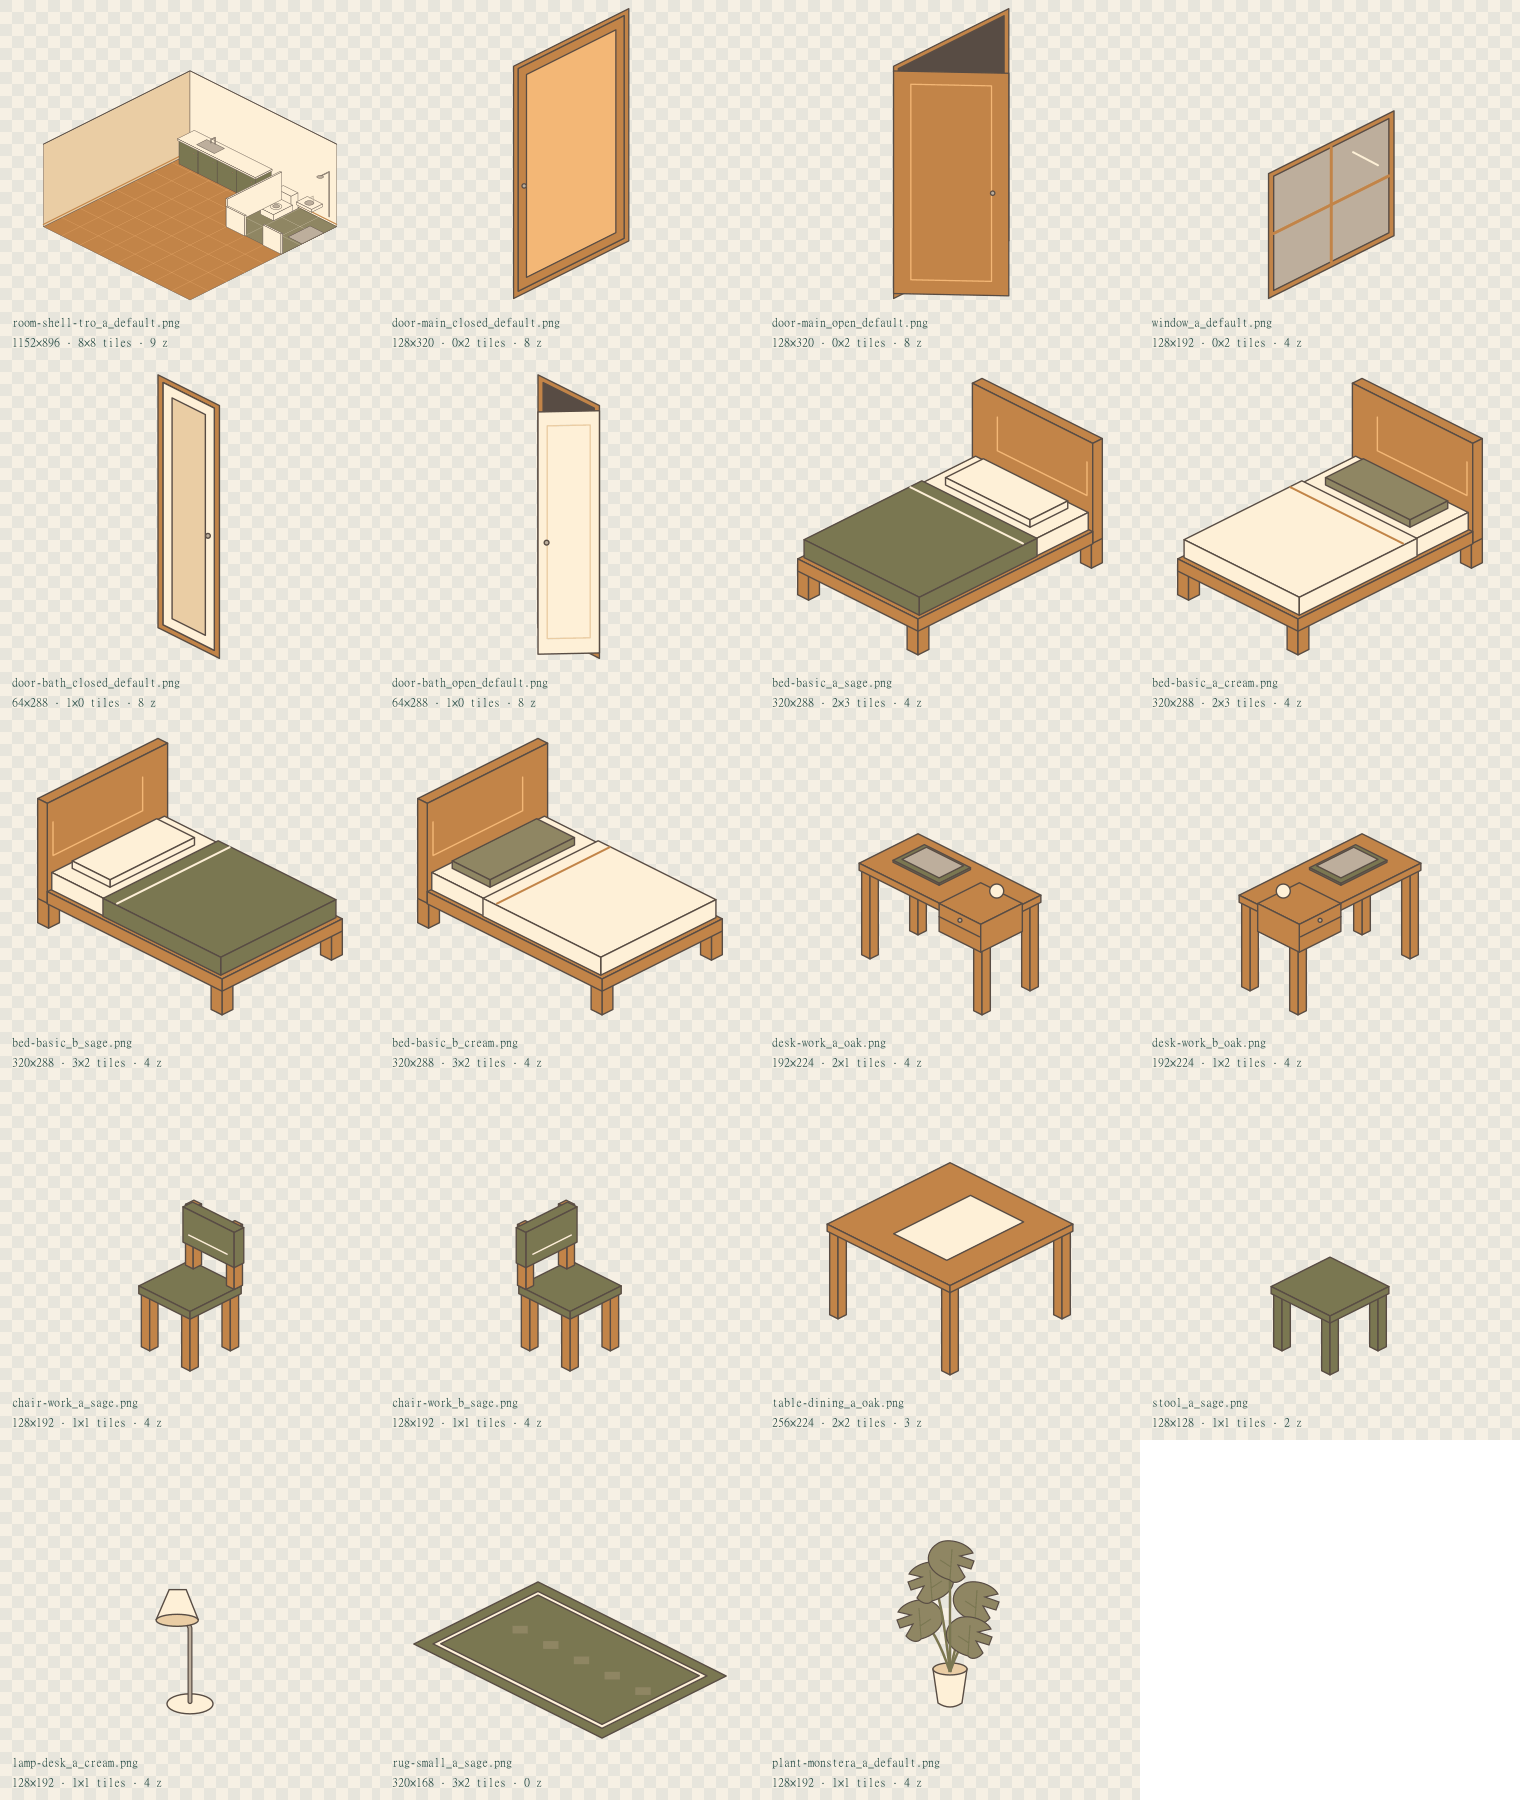
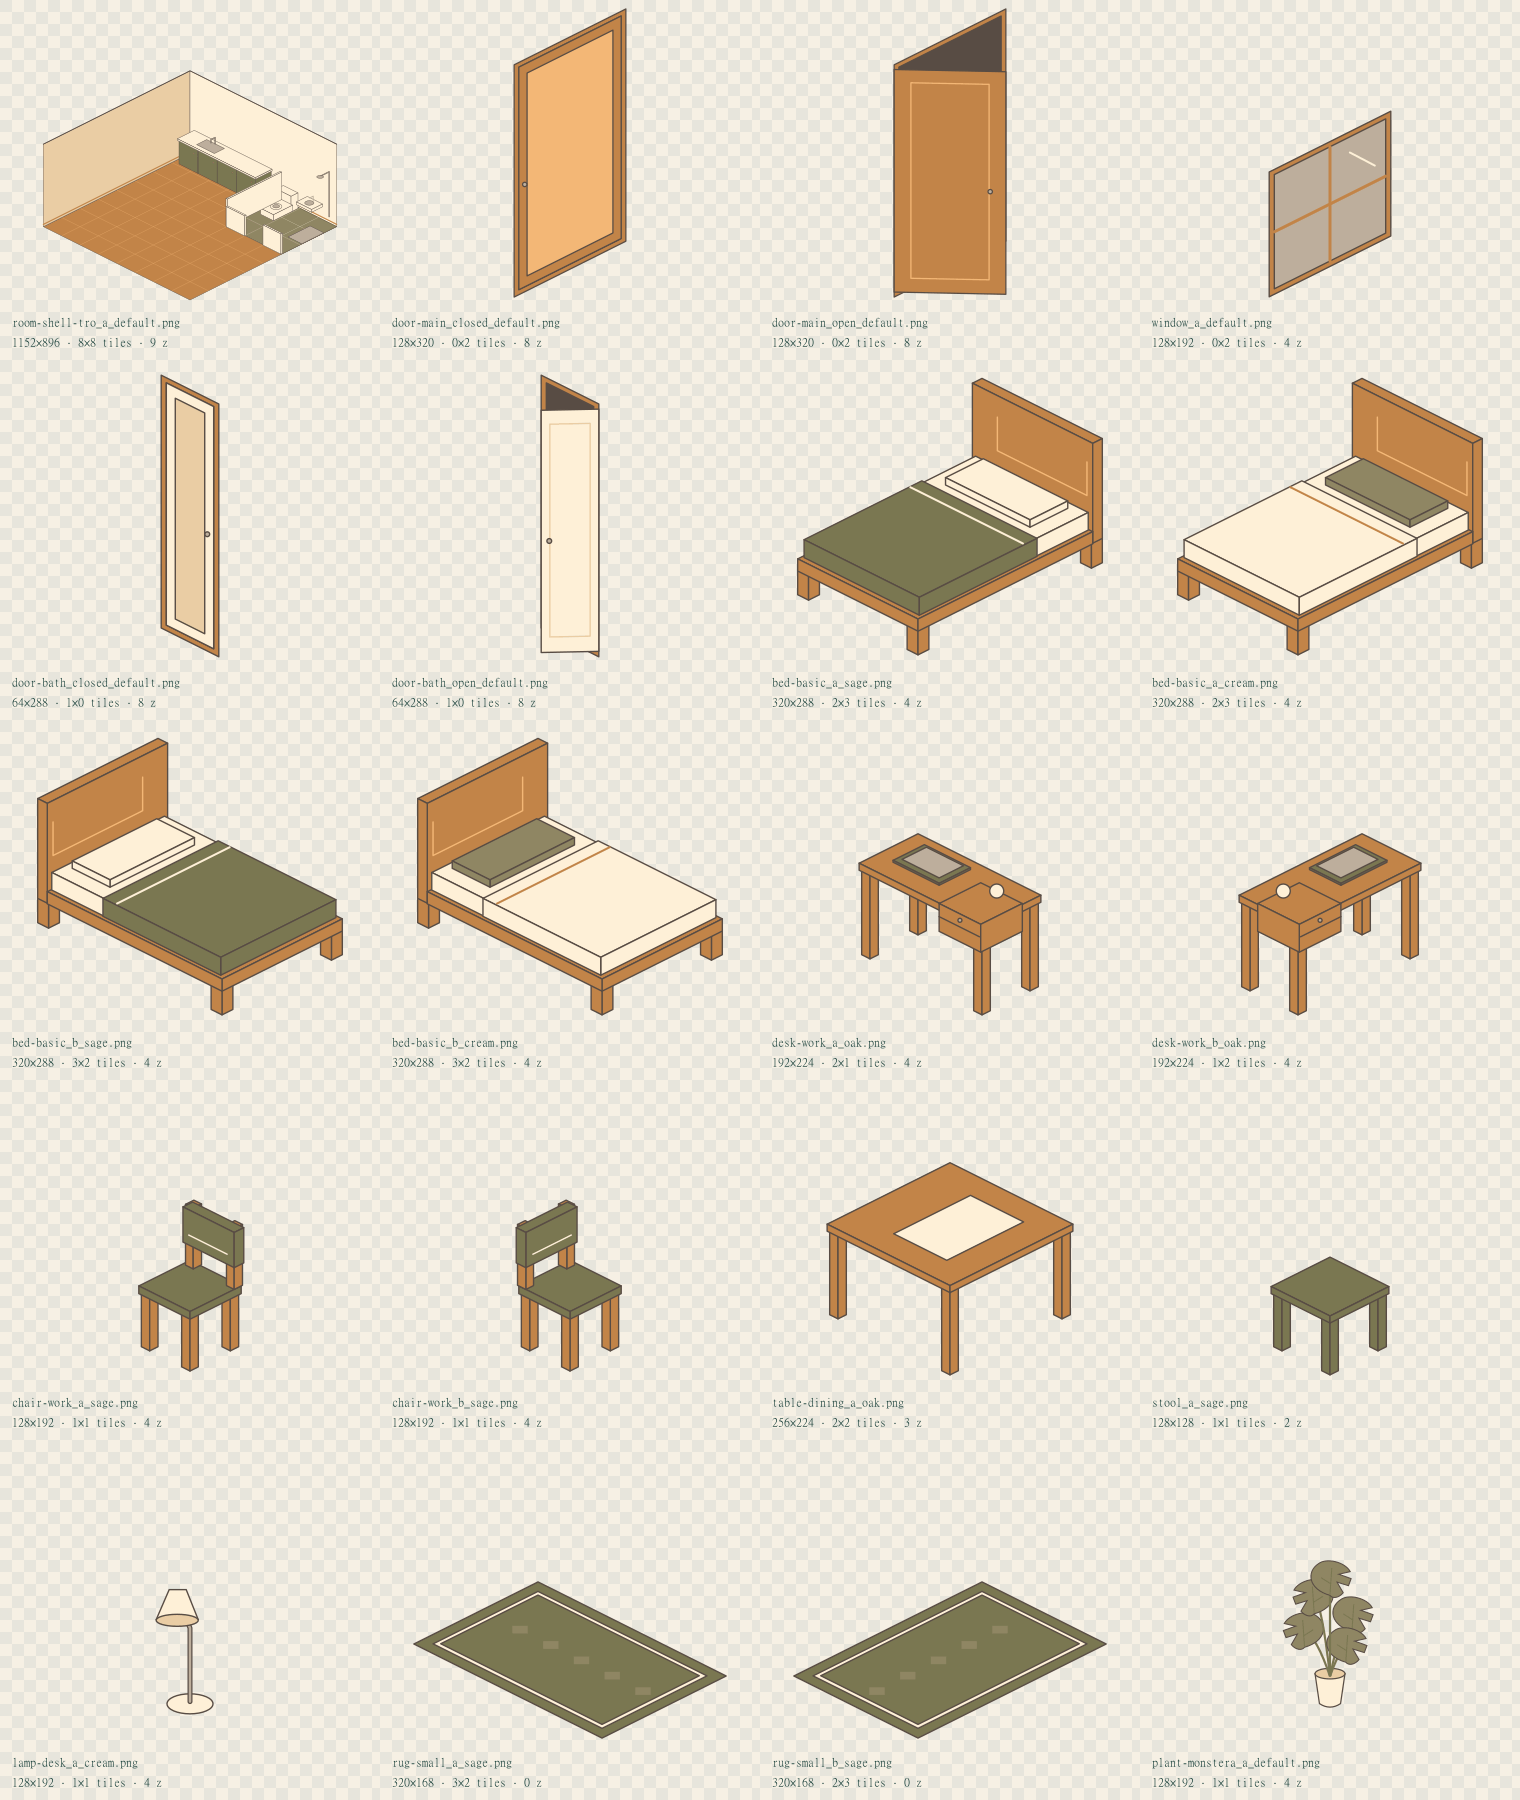
Fix room asset clipping and preview layout for issue 16

diff --git a/assets/README.md b/assets/README.md
@@ -1,6 +1,6 @@
 # Lô 1 — phòng trọ tách lớp (#3)
 
-19 PNG độc lập, kèm SVG gốc, hai manifest và bản ghép. Đây là asset để review/tích hợp; không thay nền đang dùng trong app.
+20 PNG độc lập, kèm SVG gốc, hai manifest và bản ghép. Đây là asset để review/tích hợp; không thay nền đang dùng trong app.
 
 ## Nguồn
 
@@ -12,6 +12,7 @@ Codex tự vẽ bằng vector từ các mặt phẳng/tọa độ isometric. PNG
 - `footprint_tiles` đã xoay theo ảnh, `a` nhìn xuống-trái, `b` nhìn xuống-phải.
 - `anchor_px`: đỉnh dưới thực của chân đế. Đã được chủ dự án chốt giữ khung và ghi neo thực trong trao đổi ngày 03/11/2026. Chân đế chữ nhật có neo lệch tâm: giường a `[128,288]`, b `[192,288]`.
 - `mount_origin_px`: góc sau của chân đế ở z=0 trong ảnh. Đặt ảnh bằng `screen(worldOrigin) - mount_origin_px`, hoặc bằng `screen(worldOrigin + footprint) - anchor_px`.
+- Đèn và cây có pixel thấp nhất cao hơn neo khoảng 25–32 px: neo là đỉnh dưới chân đế, không phải đáy vật. Không căn sprite lại theo bbox alpha khi tích hợp.
 - Cửa/cửa sổ là mặt phẳng tường có chiều sâu 0. Cửa chính và cửa sổ gắn tường x=0; cửa tắm gắn vách y=3. Trạng thái mở/đóng dùng cùng khung và neo.
 - Vỏ phòng 1152×896: gốc sàn `[576,384]`; phòng tắm x∈[5,8], y∈[0,3]. Phần trống phía trên dành cho tường 9z. Bếp, bồn rửa và thiết bị tắm là phần cố định; không chứa đồ di chuyển.
 
@@ -19,8 +20,16 @@ Codex tự vẽ bằng vector từ các mặt phẳng/tọa độ isometric. PNG
 
 - `previews/room-furnished.png`: ghép các loại đồ và cửa/cửa sổ trên sàn 8×8; `placements.json` chứa vị trí, `room-furnished.svg` là bản ghép sửa được.
 - `previews/room-mobile-380.png`: cùng bố cục ở rộng 380 px.
-- `previews/contact-sheet.png`: đủ 19 PNG, cả hai hướng, màu và trạng thái cửa trên nền caro.
+- `previews/contact-sheet.png`: đủ 20 PNG, cả hai hướng, màu và trạng thái cửa trên nền caro; thảm có a (3×2) và b (2×3).
 - Cần Node và sharp. Cài sharp ngoài thư mục source nếu không muốn thay dependencies của game. Đặt biến `SHARP_MODULE` bằng đường dẫn tới module sharp, rồi chạy `node assets/source/build-room.cjs`, `node assets/source/preview-room.cjs`, `node assets/source/verify-room.cjs` từ gốc repo.
+
+## Sửa sau review — issue #16
+
+- Cây thu còn 88% quanh điểm tiếp đất trong khung 128×192. Khung, neo `[64,192]` và gốc `[64,128]` giữ nguyên; tán lá cách mép trên 12 px, có khoảng trong suốt ở cả bốn phía.
+- Cửa/cửa sổ được lùi nét vào trong phần ô đã cấp, giữ nguyên khung/neo và cửa chính 8z/128×320. Cả năm ảnh có ít nhất 2 px trong suốt quanh khung; không cố ý cắt viền. Không đổi đơn vị chiếu hoặc mã màu.
+- Bố trí mới dùng x/y nguyên, chừa cửa chính x∈[0,2], y∈[1,3] và cửa tắm x∈[6,7], y∈[3,4]. Ghế làm việc quay về bàn; đèn nằm trên bàn ở z=2.9 (độ cao mặt bàn, không phải tọa độ ô sàn).
+- `placements.json` ghi khoảng trống cửa và sáu ô tiếp cận cho ghế làm việc, bàn làm việc, giường, bàn ăn, ghế đẩu, cửa tắm. Kiểm tra theo chân đế xác nhận không chồng đồ dưới sàn, không đè bếp/phòng tắm và đi được từ cửa chính tới cả sáu ô. Đây là kiểm tra lưới minh họa, chưa phải kiểm tra điều hướng trong game.
+- `verify-room.cjs` kiểm tra toàn bộ biên alpha của từng vật/cửa và render SVG vượt khung thêm 8 px để phát hiện phần bị cắt; vỏ phòng được loại khỏi kiểm tra viền vì sàn có chủ ý chạm neo ở mép dưới. Script còn kiểm tra metadata gốc/neo, đủ hai hướng thảm, khoảng trống và đường đi trong bản ghép.
 
 ## Chỗ cần review
 
